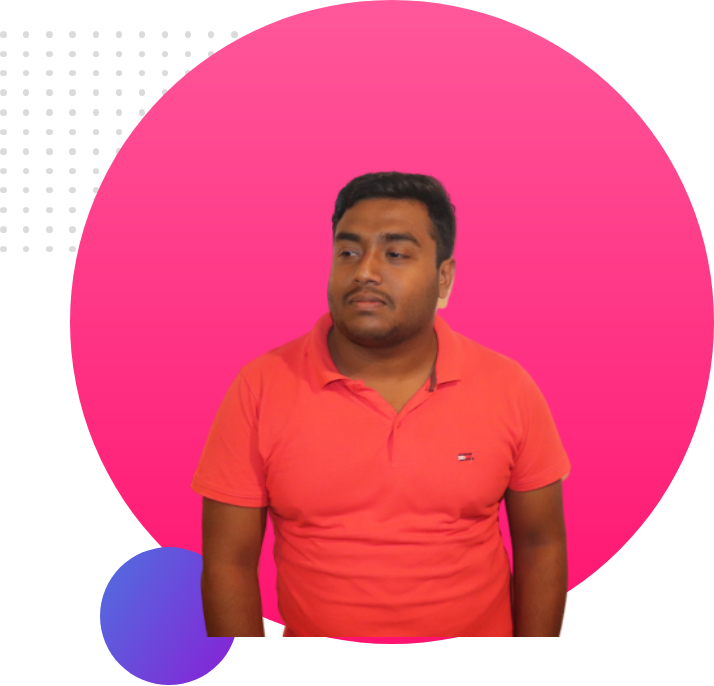
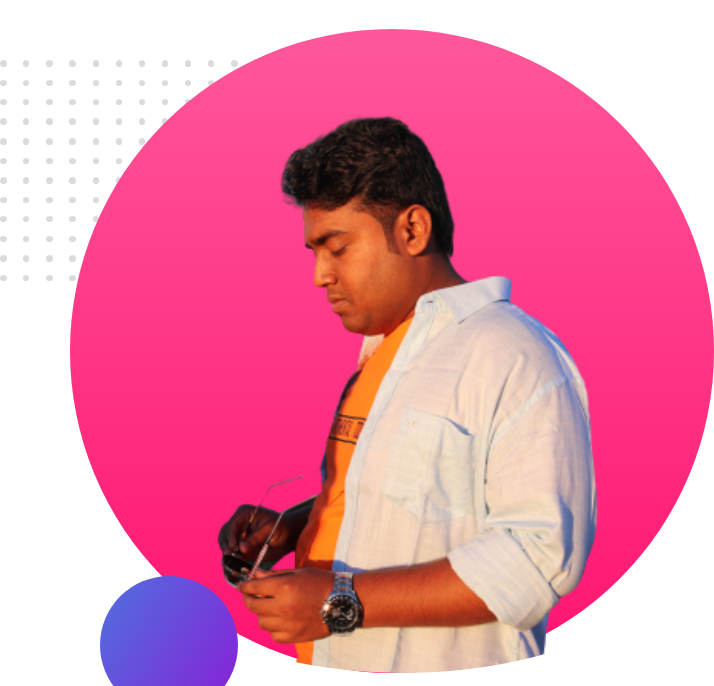
My portfolio

diff --git a/index.html b/index.html
@@ -22,11 +22,24 @@
                 My name is Rakibul Hasan Anik I am from Daffodil International University last year completed graduation
                 I
                 live in Savar</p>
-            <a target="blank" href=""><button class="hereme">Hereme</button></a>
+            <a class="hereme" target="_blank" href="https://www.linkedin.com/in/md-rokibul-hasan-823921216/">Hereme</a>
         </div>
         <div class="half-width">
             <img src="image/my-bg.png" alt="">
         </div>
+    </section>
+    <section class="">
+        <div class="half-width">
+            <img src="image/my-bg2.png" alt="">
+        </div>
+        <div class="half-width">
+            <h1>My Dreem</h1>
+            <h3>Become a Wed Develper</h3>
+            <p>I already learned the basic HTML and CSS. I can build any simple website. I can even teach my grandma how
+                to make simple website. My goal is to build 3 websites and learn advanced topics.</p>
+            <a class="hereme" target="_blank" href="">Download Resume</a>
+        </div>
+
     </section>
 
 </body>

diff --git a/style.css b/style.css
@@ -14,9 +14,10 @@ h1{
  .half-width{
      width: 50%;
      padding-left: 2%;
+     margin-bottom: 100px;
  }
  .half-width img{
-   width: 80%;
+   width: 70%;
  }
  .hereme{
      text-decoration: none;
